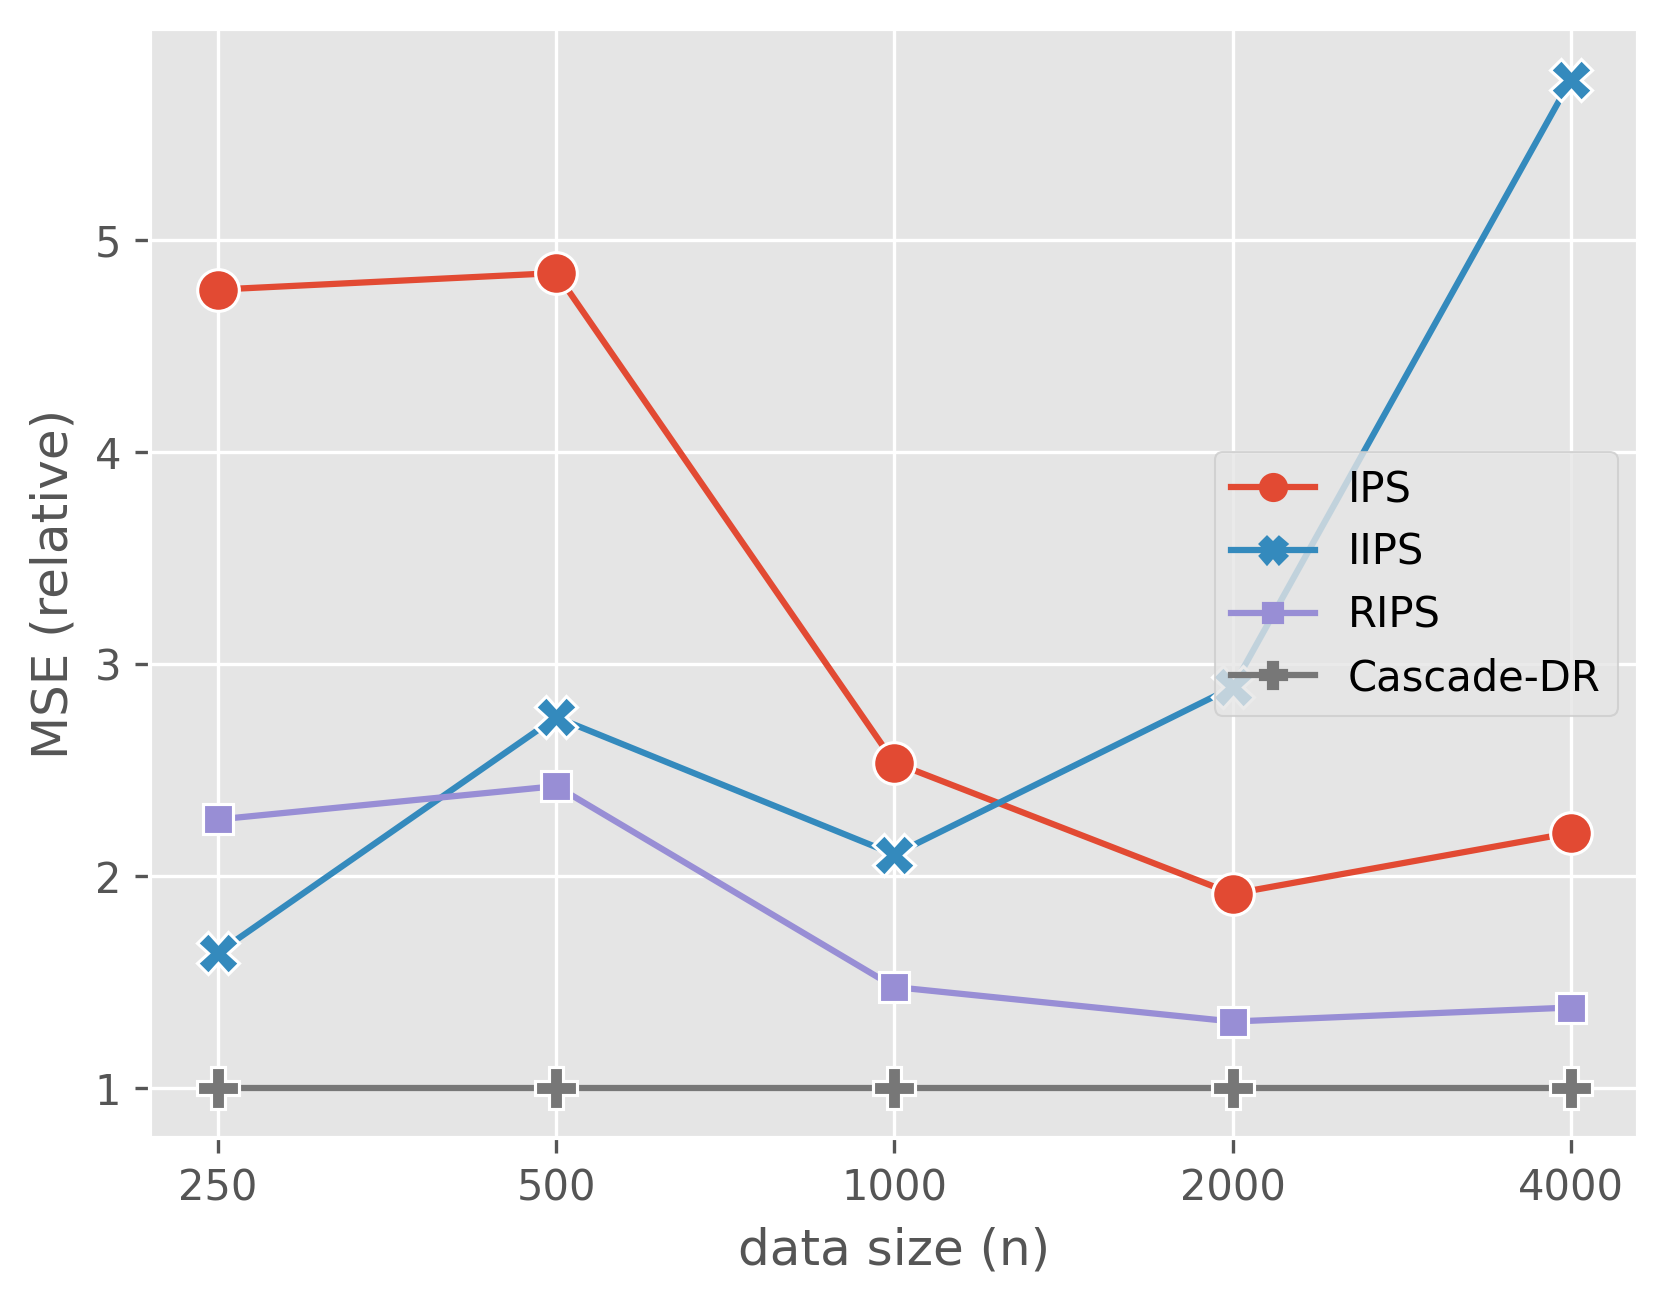
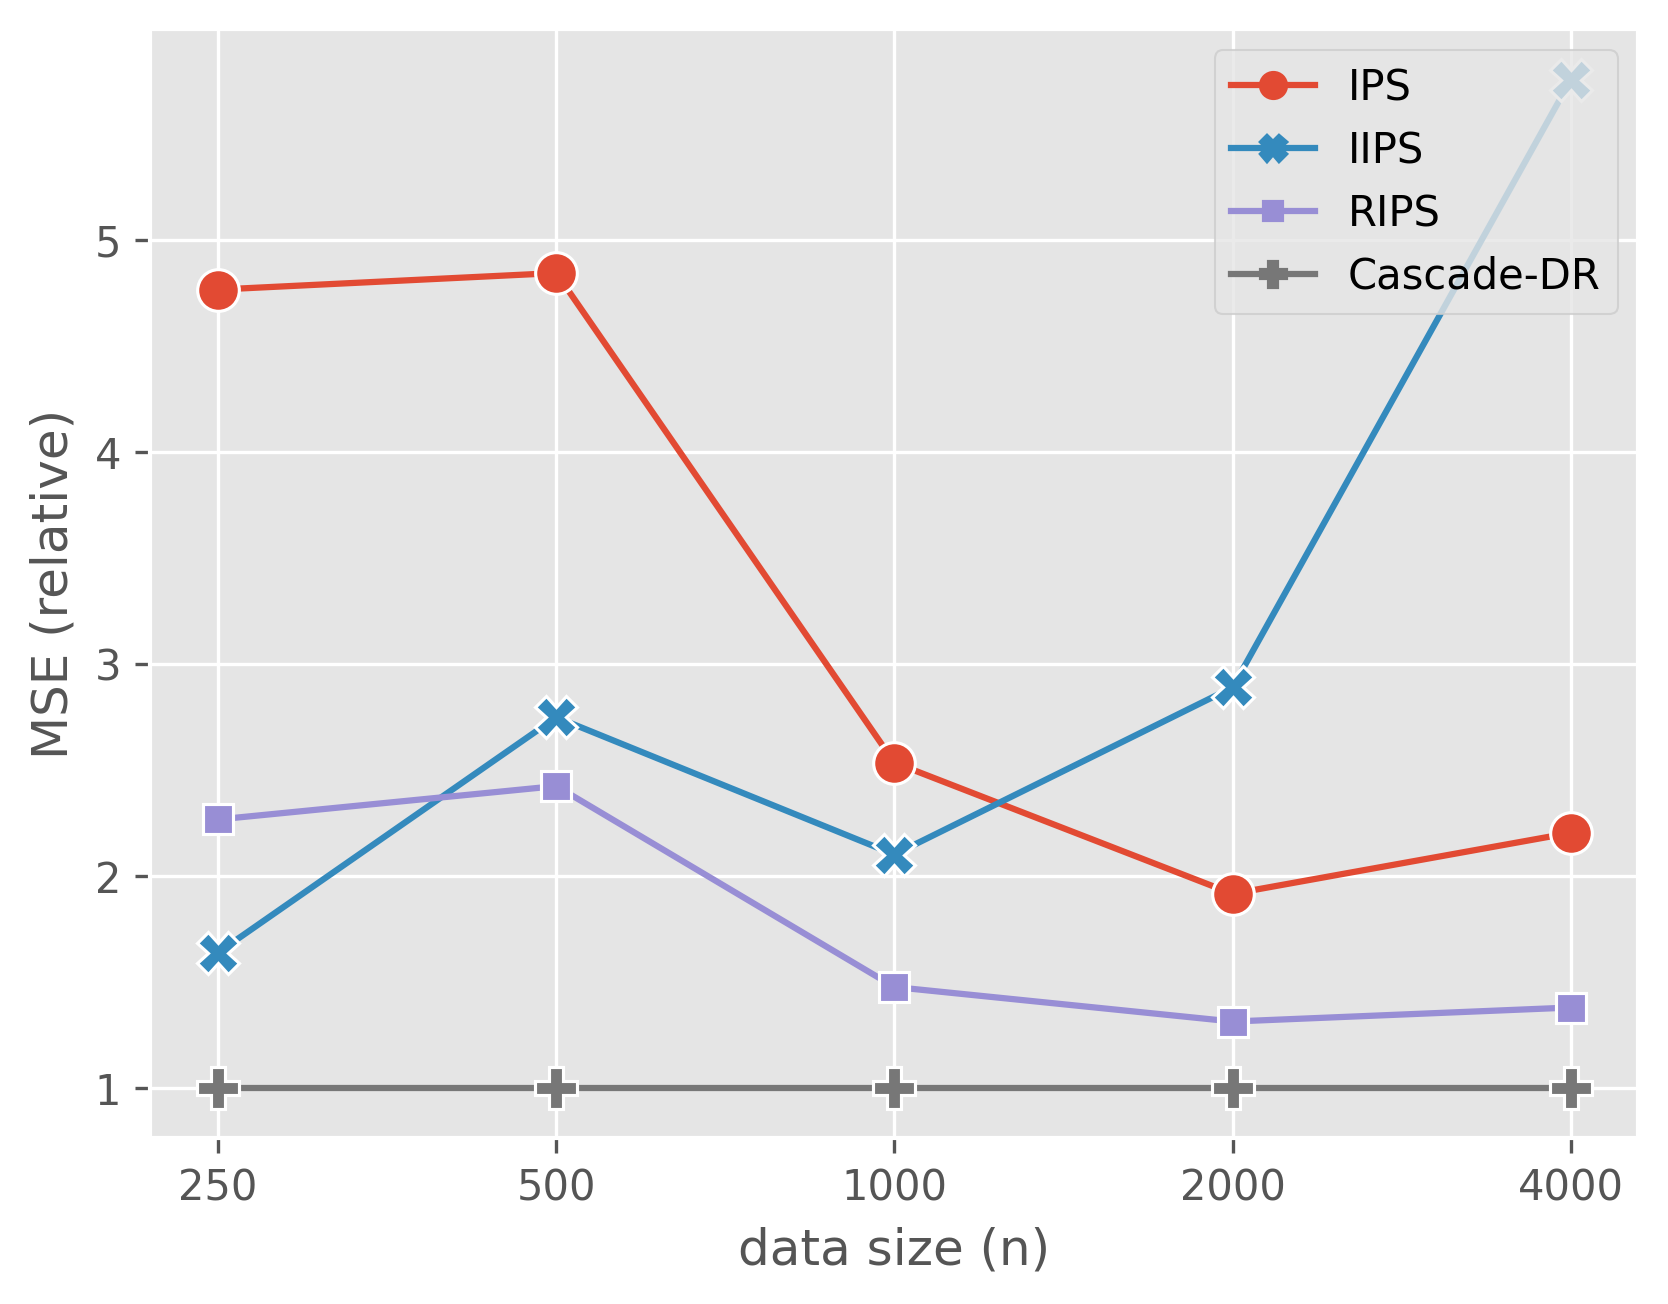
minor fix on legend

diff --git a/src/visualize.py b/src/visualize.py
@@ -111,7 +111,7 @@ for reward_structure in ["standard", "cascade", "independent"]:
     plt.xlabel("data size (n)")
     plt.ylabel("MSE (relative)")
     plt.xticks(["250", "500", "1000", "2000", "4000"])
-    plt.legend(loc="center right")
+    plt.legend(loc="upper right")
     plt.savefig(
         f"./figs/data size ({reward_structure}).png", dpi=300, bbox_inches="tight"
     )
